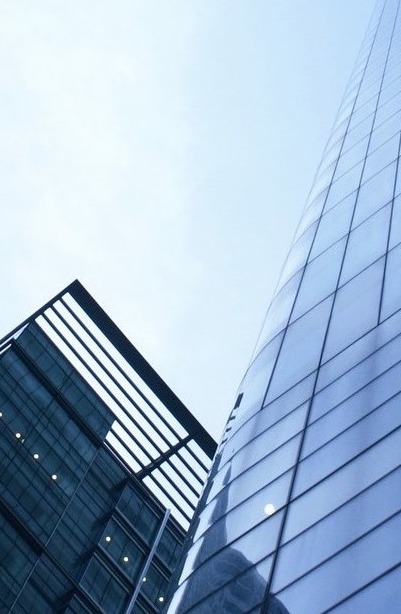
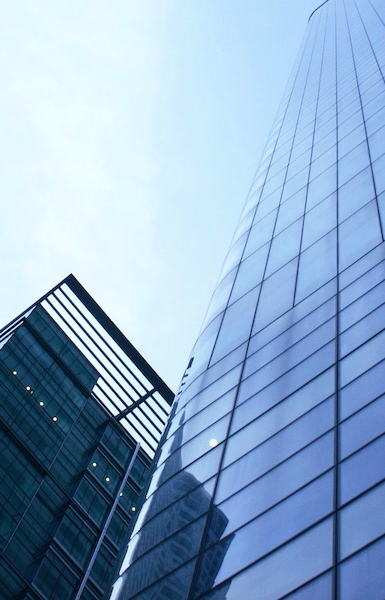
n

diff --git a/CSS/style.css b/CSS/style.css
@@ -149,7 +149,11 @@ ul, ol {
 
 
 /* --  background image section  -- */
-
+@media and (max width: 700px){
+  .bg-img {
+    background-image: url('./images/titleimagemobile.jpg');
+  }
+}
 .bg-img {
     position: absolute;
     left: 0;
@@ -168,7 +172,7 @@ ul, ol {
     top: 0;
     right: 0;
     bottom: 0;
-    opacity: .8;
+    opacity: .6;
     background: #1C1D21;
 }
 
@@ -300,7 +304,7 @@ input[type="text"]:focus, input[type="email"]:focus, input[type="password"]:focu
 \*------------------------------------*/
 
 #nav {
-    padding: 10px 0px;
+    padding: 20px 0px;
     background: #FFF;
     -webkit-transition: 0.2s padding;
     transition: 0.2s padding;
@@ -317,7 +321,7 @@ input[type="text"]:focus, input[type="email"]:focus, input[type="password"]:focu
     position: fixed;
     left: 0;
     right: 0;
-    padding: 0px 0px;
+    padding: 8px 0px;
     background-color: #FFF !important;
     border-bottom: 1px solid #EEE;
 }
@@ -369,7 +373,7 @@ input[type="text"]:focus, input[type="email"]:focus, input[type="password"]:focu
         font-family: 'FontAwesome';
         content: "\f054";
         font-size: 6px;
-        margin-left: 6px;
+        margin-left: 2px;
         float: right;
         -webkit-transform: rotate(90deg);
         -ms-transform: rotate(90deg);
@@ -382,7 +386,7 @@ input[type="text"]:focus, input[type="email"]:focus, input[type="password"]:focu
         right: -50%;
         top: 0;
         background-color: #6195FF;
-        width: 200px;
+        width: 100px;
         -webkit-box-shadow: 0px 5px 5px -5px rgba(53, 64, 82, 0.2);
         box-shadow: 0px 5px 5px -5px rgba(53, 64, 82, 0.2);
         -webkit-transform: translateY(15px) translateX(50%);
@@ -405,6 +409,7 @@ input[type="text"]:focus, input[type="email"]:focus, input[type="password"]:focu
         color: #FFF;
         border-top: 1px solid rgba(250, 250, 250, 0.1);
         padding: 10px 0px;
+        text-align: center;
     }
     .dropdown li:nth-child(1) a {
         border-top: none;

diff --git a/test.html b/test.html
@@ -27,6 +27,9 @@
 
 	<!-- Custom stlylesheet -->
 	<link type="text/css" rel="stylesheet" href="CSS/style.css" />
+  <script type="text/javascript" src="js/jquery.min.js"></script>
+  <script type="text/javascript" src="js/bootstrap.min.js"></script>
+  <script type="text/javascript" src="js/main.js"></script>
 
 	<!-- HTML5 shim and Respond.js for IE8 support of HTML5 elements and media queries -->
 	<!-- WARNING: Respond.js doesn't work if you view the page via file:// -->
@@ -53,8 +56,8 @@
 					<!-- Logo -->
 					<div class="navbar-brand">
 						<a href="index.html">
-							<img class="logo" src="/images/FBLALOGO.jpg" alt="logo">
-							<img class="logo-alt" src="/images/FBLALOGO.jpg" alt="logo">
+							<img class="logo" src="images/FBLALOGO.png" alt="Accuracy">
+							<img class="logo-alt" src="images/FBLALOGO.png" alt="accuracy">
 						</a>
 					</div>
 					<!-- /Logo -->
@@ -79,7 +82,11 @@
 							<li><a href="blog-single.html">blog post</a></li>
 						</ul>
 					</li>
-					<li><a href="#contact">Contact</a></li>
+          <li class="has-dropdown"><a href="#blog">Blog</a>
+						<ul class="dropdown">
+							<li><a href="blog-single.html">blog post</a></li>
+						</ul>
+					</li>
 				</ul>
 				<!-- /Main navigation -->
 
@@ -133,11 +140,6 @@
 	<!-- Blog -->
 	<div id="blog" class="section md-padding bg-grey">
 
-
-	<!-- jQuery Plugins -->
-	<script type="text/javascript" src="js/jquery.min.js"></script>
-	<script type="text/javascript" src="js/bootstrap.min.js"></script>
-	<script type="text/javascript" src="js/main.js"></script>
 
 </body>
 
